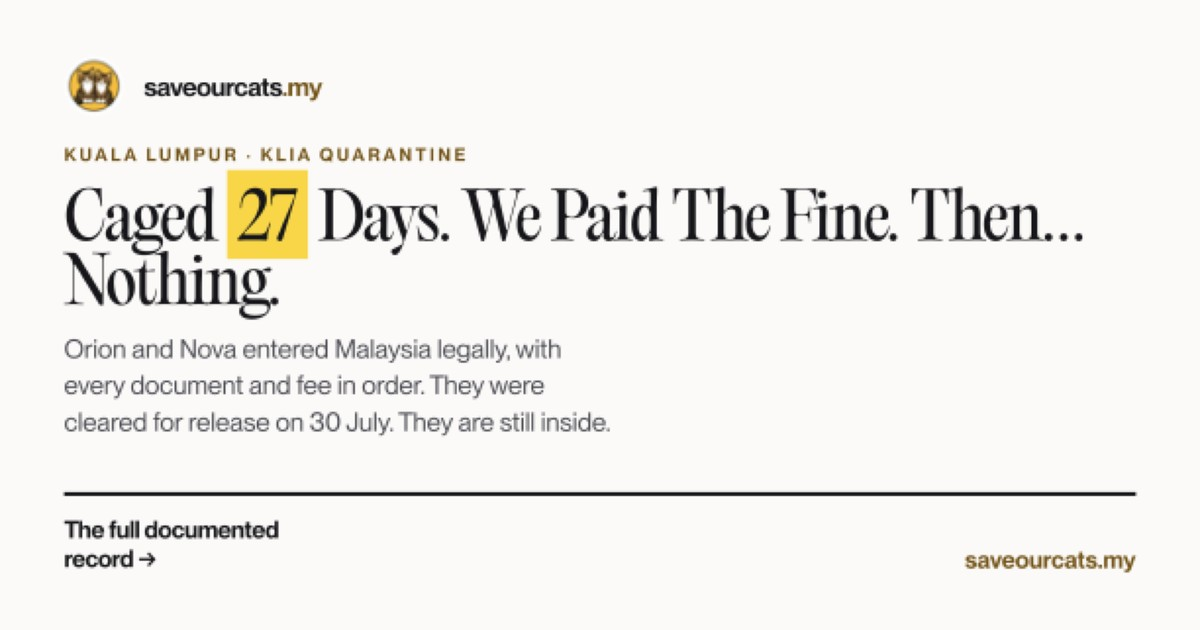
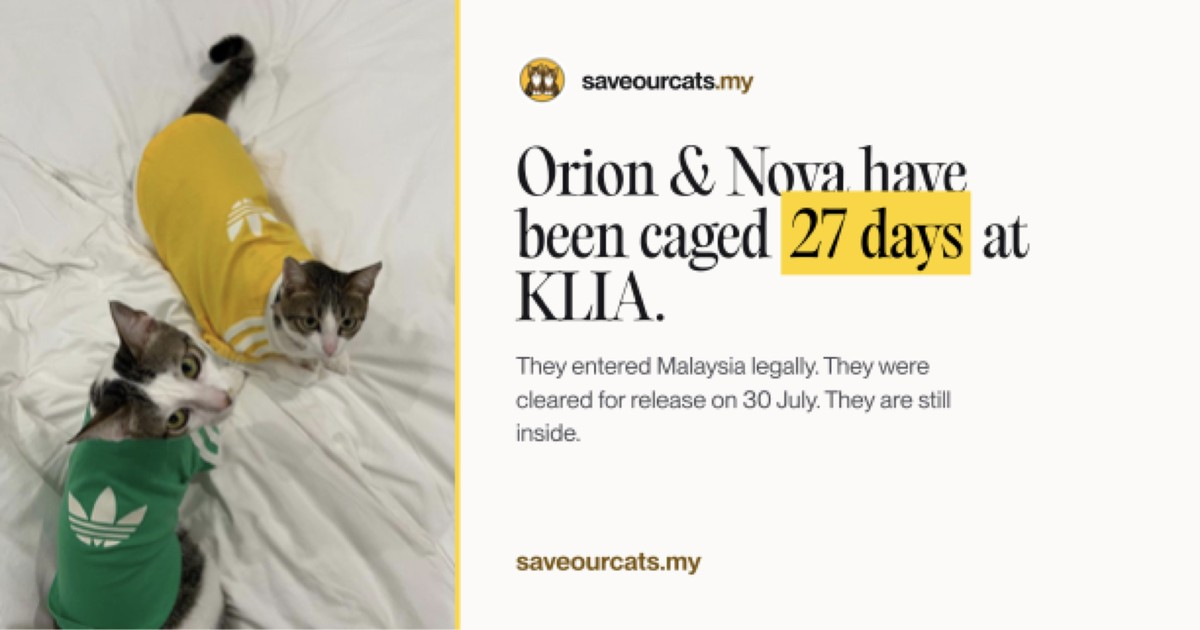
[saveourcats] SEO: robots, sitemap, NewsArticle schema, photo-led OG card
- robots.txt allowing all crawlers, pointing at the sitemap
- sitemap.xml with image entries and captions for all three photographs,
  so the cats are indexable in Google Images
- NewsArticle JSON-LD: headline, dates, publisher, contentLocation set to
  the KLIA quarantine station, and MAQIS named as a GovernmentOrganization
  the piece is about. dateModified regenerates on every build.
- og-image.jpg replaced with a photo-led card — Orion and Nova occupy the
  left 40%, headline and URL to the right

Claude-Session: https://claude.ai/code/session_01FvmHQvtsH7rGrufmJRsbrq

diff --git a/src/cards.html b/src/cards.html
@@ -26,6 +26,33 @@
     position: relative; overflow: hidden;
   }
   .card.sq { height: 1080px; }
+
+  .card.ogphoto {
+    width: 1200px; height: 630px; padding: 0;
+    display: grid; grid-template-columns: 460px 1fr;
+    background: var(--paper); overflow: hidden;
+  }
+  .ogp-photo { overflow: hidden; height: 630px; border-right: 5px solid var(--accent); }
+  .ogp-photo img { width: 100%; height: 100%; object-fit: cover; object-position: 50% 42%; display: block; }
+  .ogp-text { padding: 54px 56px; display: flex; flex-direction: column; }
+  .ogp-brand { display: flex; align-items: center; gap: 14px; }
+  .ogp-brand img { width: 52px; height: 52px; border-radius: 50%; }
+  .ogp-brand span { font-family: var(--sans); font-size: 25px; font-weight: 600; letter-spacing: -0.02em; }
+  .ogp-brand b { color: var(--amber); font-weight: 600; }
+  .ogp-h {
+    font-family: var(--serif); font-weight: 400;
+    font-size: 60px; line-height: 1.04; letter-spacing: -0.018em;
+    margin-top: 34px; max-width: 15ch;
+  }
+  .ogp-h mark { background: var(--accent); padding: 0 8px; }
+  .ogp-sub {
+    font-family: var(--sans); font-size: 24px; line-height: 1.4;
+    color: var(--ink-soft); margin-top: 22px; max-width: 30ch;
+  }
+  .ogp-url {
+    font-family: var(--sans); font-size: 26px; font-weight: 600;
+    color: var(--amber); margin-top: auto;
+  }
   .card.og { width: 1200px; height: 630px; padding: 56px 64px; }
   .card.og h1 { font-size: 64px; margin-top: 18px; }
   .card.og .kick { margin-top: 28px; font-size: 18px; }
@@ -100,7 +127,7 @@
   </div>
 
   <p class="kick">Kuala Lumpur · KLIA Quarantine</p>
-  <h1>Save Our Cats From Over <mark>27+</mark> Days Of Captivity. No Answer From Authorities.</h1>
+  <h1>Caged <mark>27</mark> Days. We Paid The Fine. Then…Nothing.</h1>
   <p class="sub">
     Orion and Nova entered Malaysia <b>legally</b>, with every document and every fee in order.
     They were cleared for release on <b>30 July</b>. They are still inside.
@@ -198,13 +225,17 @@
   </div>
 </div>
 
-<div class="card og" id="og">
-  <div class="top"><img src="saveourcats/img/logo.png" alt=""><p class="wm">saveourcats<span>.my</span></p></div>
-  <p class="kick">Kuala Lumpur · KLIA Quarantine</p>
-  <h1>Save Our Cats From Over <mark>27+</mark> Days Of Captivity. No Answer From Authorities.</h1>
-  <p class="sub">Orion and Nova entered Malaysia legally, with every document and fee in order. They were cleared for release on 30 July. They are still inside.</p>
-  <div class="spacer"></div>
-  <div class="foot"><p class="cta">The full documented record →</p><p class="url">saveourcats.my</p></div>
+<div class="card ogphoto" id="ogphoto">
+  <div class="ogp-photo"><img src="saveourcats/img/before-the-flight.jpg" alt=""></div>
+  <div class="ogp-text">
+    <div class="ogp-brand">
+      <img src="saveourcats/img/logo.png" alt="">
+      <span>saveourcats<b>.my</b></span>
+    </div>
+    <h2 class="ogp-h">Orion &amp; Nova have been caged <mark>27 days</mark> at KLIA.</h2>
+    <p class="ogp-sub">They entered Malaysia legally. They were cleared for release on 30 July. They are still inside.</p>
+    <p class="ogp-url">saveourcats.my</p>
+  </div>
 </div>
 
 <script>

diff --git a/index.html b/index.html
@@ -34,6 +34,45 @@
   body { margin: 0; }
   img { max-width: 100%; height: auto; display: block; }
 </style>
+
+<script type="application/ld+json">
+{
+  "@context": "https://schema.org",
+  "@type": "NewsArticle",
+  "headline": "Save Our Cats From Over 27+ Days Of Captivity. No Answer From Authorities.",
+  "description": "Two cats cleared every requirement to enter Malaysia. They are still locked in quarantine at KLIA — under a rule issued after they arrived.",
+  "image": ["https://saveourcats.my/og-image.jpg"],
+  "datePublished": "2026-08-12T00:00:00+08:00",
+  "dateModified": "2026-08-12T00:00:00+08:00",
+  "inLanguage": ["en", "ms"],
+  "isAccessibleForFree": true,
+  "author": { "@type": "Person", "name": "The owners of Orion and Nova" },
+  "publisher": {
+    "@type": "Organization",
+    "name": "saveourcats.my",
+    "url": "https://saveourcats.my/",
+    "logo": { "@type": "ImageObject", "url": "https://saveourcats.my/img/logo.png" }
+  },
+  "mainEntityOfPage": { "@type": "WebPage", "@id": "https://saveourcats.my/" },
+  "contentLocation": {
+    "@type": "Place",
+    "name": "KLIA Animal Quarantine Station",
+    "address": {
+      "@type": "PostalAddress",
+      "streetAddress": "Kompleks MAQIS KLIA, Jalan Pekeliling 4",
+      "addressLocality": "Sepang",
+      "addressRegion": "Selangor",
+      "postalCode": "64050",
+      "addressCountry": "MY"
+    }
+  },
+  "about": [
+    { "@type": "Thing", "name": "Animal quarantine" },
+    { "@type": "Thing", "name": "Pet import Malaysia" },
+    { "@type": "GovernmentOrganization", "name": "Malaysian Quarantine and Inspection Services Department (MAQIS)" }
+  ]
+}
+</script>
 </head>
 <body>
 <style>

diff --git a/build.py b/build.py
@@ -18,8 +18,10 @@ import mimetypes
 import pathlib
 import re
 import sys
+import datetime
 
 ROOT = pathlib.Path(__file__).parent
+TODAY = datetime.date.today().isoformat()
 SRC = ROOT / "src" / "page.html"
 
 DESC = (
@@ -123,6 +125,45 @@ doc = f"""<!doctype html>
   body {{ margin: 0; }}
   img {{ max-width: 100%; height: auto; display: block; }}
 </style>
+
+<script type="application/ld+json">
+{{
+  "@context": "https://schema.org",
+  "@type": "NewsArticle",
+  "headline": "{SHARE_TITLE}",
+  "description": "{SHARE_DESC}",
+  "image": ["https://saveourcats.my/og-image.jpg"],
+  "datePublished": "2026-08-12T00:00:00+08:00",
+  "dateModified": "{TODAY}T00:00:00+08:00",
+  "inLanguage": ["en", "ms"],
+  "isAccessibleForFree": true,
+  "author": {{ "@type": "Person", "name": "The owners of Orion and Nova" }},
+  "publisher": {{
+    "@type": "Organization",
+    "name": "saveourcats.my",
+    "url": "https://saveourcats.my/",
+    "logo": {{ "@type": "ImageObject", "url": "https://saveourcats.my/img/logo.png" }}
+  }},
+  "mainEntityOfPage": {{ "@type": "WebPage", "@id": "https://saveourcats.my/" }},
+  "contentLocation": {{
+    "@type": "Place",
+    "name": "KLIA Animal Quarantine Station",
+    "address": {{
+      "@type": "PostalAddress",
+      "streetAddress": "Kompleks MAQIS KLIA, Jalan Pekeliling 4",
+      "addressLocality": "Sepang",
+      "addressRegion": "Selangor",
+      "postalCode": "64050",
+      "addressCountry": "MY"
+    }}
+  }},
+  "about": [
+    {{ "@type": "Thing", "name": "Animal quarantine" }},
+    {{ "@type": "Thing", "name": "Pet import Malaysia" }},
+    {{ "@type": "GovernmentOrganization", "name": "Malaysian Quarantine and Inspection Services Department (MAQIS)" }}
+  ]
+}}
+</script>
 </head>
 <body>
 {body}
